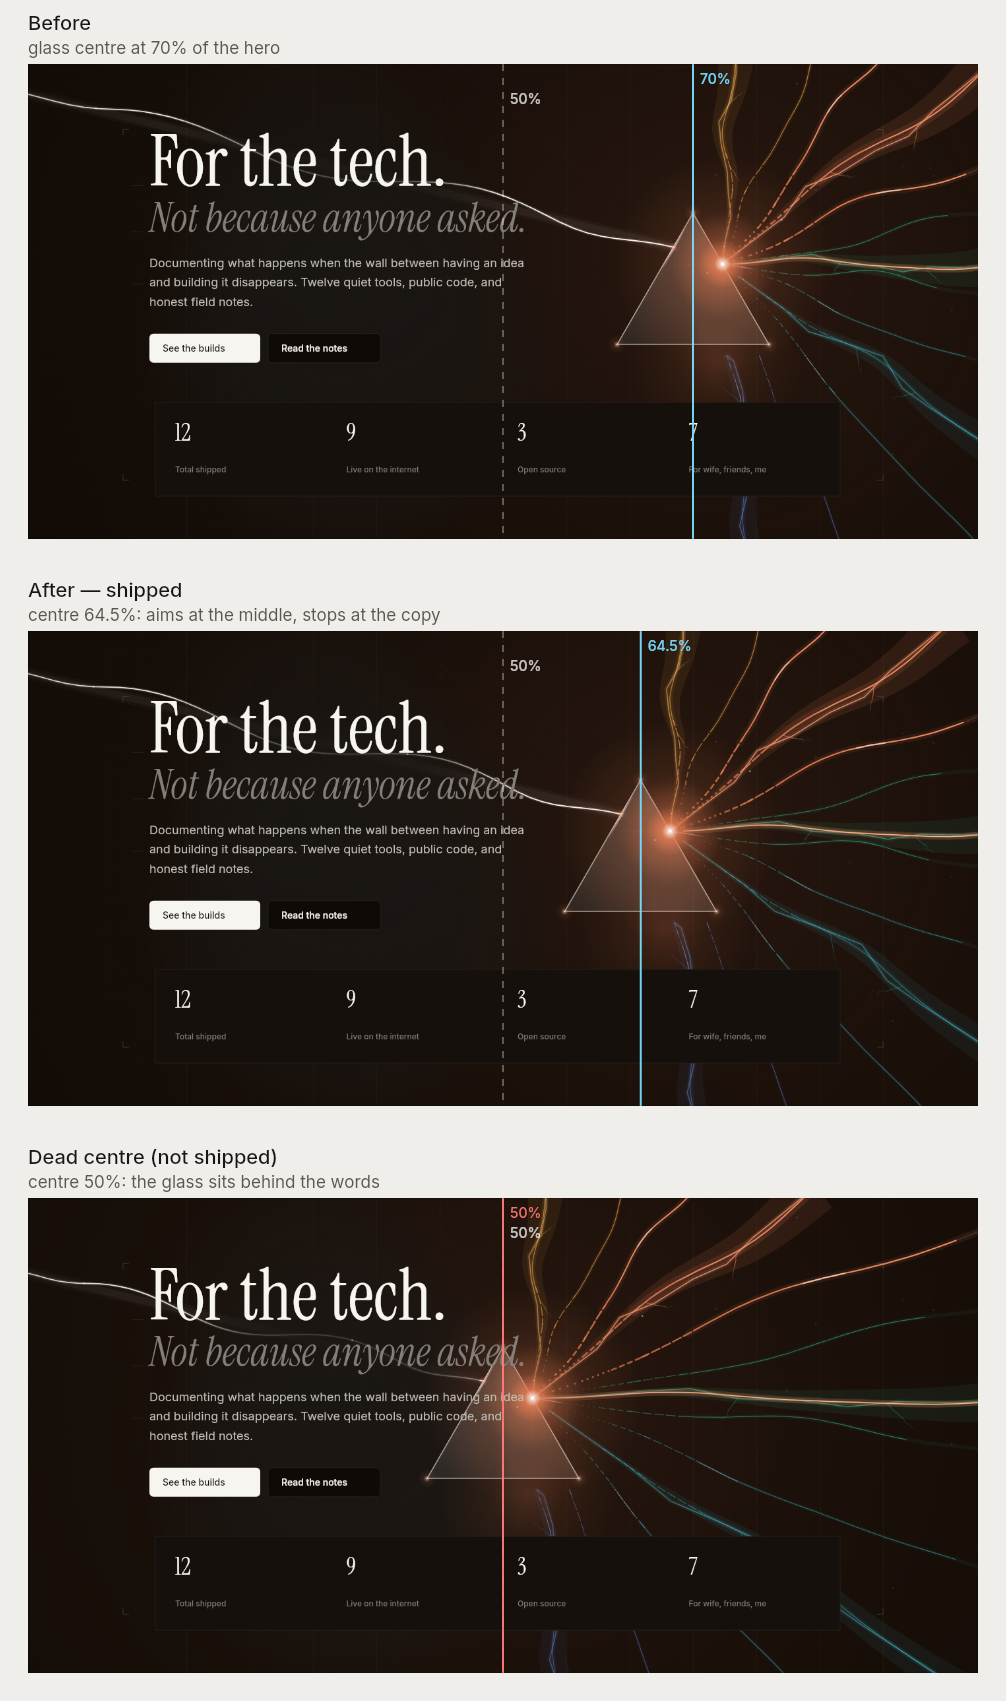
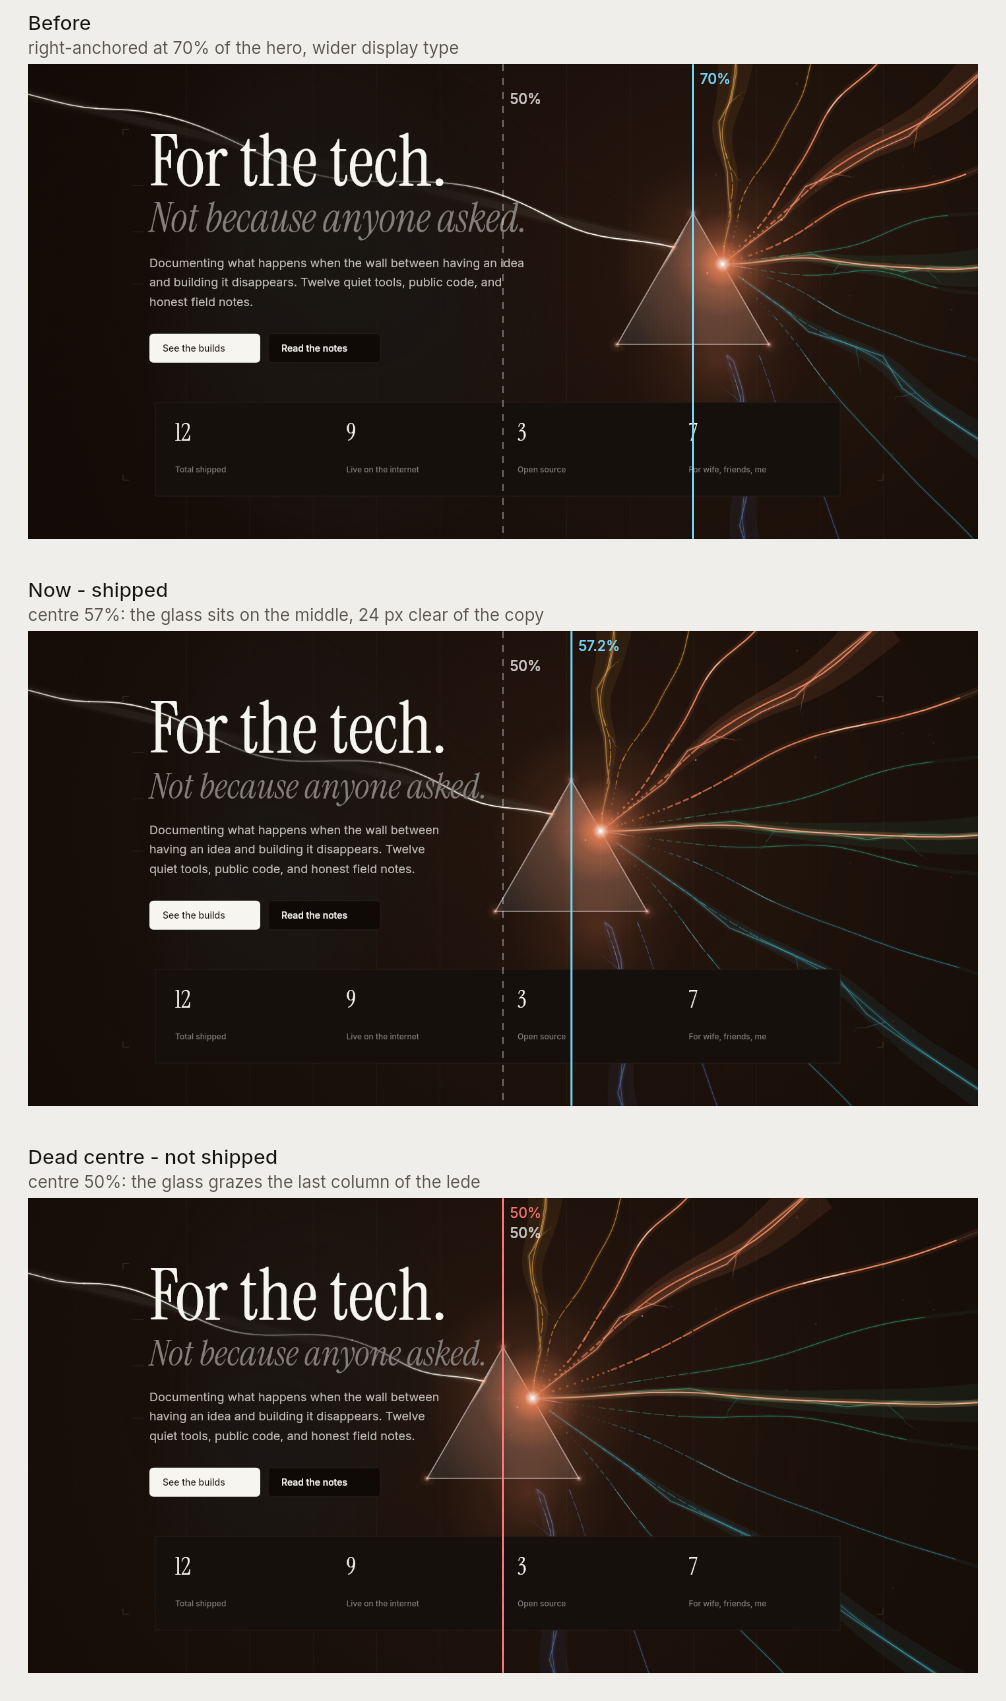
hero: narrow the copy so the glass can sit on the middle
The prism now lands at 57% of the hero (823px at 1440) instead of 64.5%:
its base straddles the 50% line and the fan fills the right half rather
than the right third. Two copy changes buy the room, since the copy's
own footprint — not the clearance margin — was the wall:

- closing italic: 3.8rem -> 3.4rem at xl
- lede: max-w-xl -> max-w-md (still three lines in the 640-2560 sweep)
- CTA row: sm:w-fit, so the measured rect is the buttons rather than the
  full-width flex container 250px of empty row wide

Dead centre (50%) stays out: the last lede column reaches within a few
pixels of the triangle's left edge. Captured QA layouts updated for the
new type scale; phase 8 stills and the alignment comparison regenerated;
all geometry invariants still pass.

diff --git a/src/components/sections/Hero.tsx b/src/components/sections/Hero.tsx
@@ -71,7 +71,11 @@ export function Hero() {
           and the graphic; a dissolve keeps them on one plane. */}
       <Container className="relative z-10" data-hero-container>
         <div className="grid grid-cols-1 gap-12 lg:grid-cols-12 items-center">
-          {/* Left column: headline + thesis + CTAs */}
+          {/* Left column: headline + thesis + CTAs.
+              These widths are load-bearing for the composition behind them: hero-ray.ts places
+              the prism as close to the column's centre line as this copy allows, so the right
+              edge of the italic, the lede and the CTA row is what decides where the glass
+              settles. Widening any of them pushes the whole picture back to the right. */}
           <div className="lg:col-span-7 space-y-6" data-hero-copy>
             <h1 id="hero-heading" className="font-serif tracking-tight">
               <span className="block text-[12vw] leading-[0.88] text-ink sm:text-[4.5rem] md:text-[5.5rem] lg:text-[6rem] xl:text-[6.8rem]">
@@ -79,7 +83,7 @@ export function Hero() {
               </span>
               <span
                 data-hero-thesis
-                className="mt-2 block text-[7.5vw] italic leading-[1.02] text-ink-mute sm:text-[2.6rem] md:text-[3.2rem] lg:text-[3.3rem] xl:text-[3.8rem]"
+                className="mt-2 block text-[7.5vw] italic leading-[1.02] text-ink-mute sm:text-[2.6rem] md:text-[3.2rem] lg:text-[3.3rem] xl:text-[3.4rem]"
               >
                 <RevealWord delay={0.18} italic>
                   Not because anyone asked.
@@ -87,13 +91,15 @@ export function Hero() {
               </span>
             </h1>
 
-            <p className="max-w-xl text-base leading-relaxed text-ink-soft md:text-lg">
+            {/* max-w-md keeps the paragraph at three lines while clearing the glass's band. */}
+            <p className="max-w-md text-base leading-relaxed text-ink-soft md:text-lg">
               Documenting what happens when the wall between having an idea and building it
               disappears. {numberWord(projectCount)} quiet tools, public code, and honest field
               notes.
             </p>
 
-            <div className="flex flex-col gap-3 pt-2 text-sm sm:flex-row sm:flex-wrap sm:items-center">
+            {/* `sm:w-fit`: the row's box is measured, so it must not be wider than its buttons. */}
+            <div className="flex flex-col gap-3 pt-2 text-sm sm:w-fit sm:flex-row sm:flex-wrap sm:items-center">
               <Link
                 to="/works"
                 className="group inline-flex min-h-11 items-center justify-center gap-2 rounded-md bg-ink px-6 text-paper transition-all duration-150 hover:bg-ink-soft focus-visible:outline-none focus-visible:ring-2 focus-visible:ring-ink focus-visible:ring-offset-2 focus-visible:ring-offset-paper"

diff --git a/design/hero-phase8/README.md b/design/hero-phase8/README.md
@@ -23,11 +23,11 @@ Because the prism's position is solved from the landing, the beam and the glass 
 apart, and because the origin is the first _traced far-facet contact_, the fan cannot drift from the glass
 either. Moving one number moves the whole picture coherently.
 
-| viewport | prism centre                                        | beam source               | landing on the left facet | dispersion origin |
-| -------- | --------------------------------------------------- | ------------------------- | ------------------------- | ----------------- |
-| 1440     | (929, 359) · 68 % of the column, 64.5 % of the hero | left frame edge, (0, 65)  | (899, 278)                | (973, 303)        |
-| 1024     | (710, 351) · 69 %                                   | left frame edge, (0, 108) | (680, 269)                | (755, 295)        |
-| 390      | (337, 64) · corner                                  | lower left, (0, 135)      | (365, 57)                 | right facet       |
+| viewport | prism centre                                      | beam source               | landing on the left facet | dispersion origin |
+| -------- | ------------------------------------------------- | ------------------------- | ------------------------- | ----------------- |
+| 1440     | (823, 359) · 57 % of the hero, 59 % of the column | left frame edge, (0, 90)  | (793, 278)                | (868, 303)        |
+| 1024     | (667, 351) · 65 %                                 | left frame edge, (0, 118) | (637, 269)                | (712, 295)        |
+| 390      | (337, 64) · corner                                | lower left, (0, 135)      | right facet               | right facet       |
 
 ### The glass aims at the _column's middle_, not at a right-hand anchor
 
@@ -40,14 +40,6 @@ the column's centre line; the copy is the only thing allowed to hold it back:
 centreX = clamp(band + halfW + 24, column.left + 0.5·column, frame − halfW − 2 %)
 ```
 
-On this composition the display type reaches roughly the middle of the page, so in practice the
-copy's clearance is what decides and the glass settles just past the last glyph — 64.5 % of the
-hero at 1440 rather than 70 %. That is the intended reading: **the glass is held back by the
-words, never by a chosen offset.** The footprint is also what keeps a dead-centre placement off
-the table: the italic line ends within a few pixels of the 50 % line, so a glass centred there
-would put its body behind "asked." and the right edge of the lede (see
-`phase8-prism-alignment.png`). Moving it further left needs a narrower copy, not a smaller margin.
-
 - **band** is the copy that actually shares the glass's vertical band — the display type, and at
   rest also the top of the CTA row, whose box reaches up into that band. Everything below the
   band (the rest of the lede and the buttons) sits under the glass and cannot push it.
@@ -59,6 +51,29 @@ would put its body behind "asked." and the right edge of the lede (see
 - **The source is allowed to sit exactly on the frame boundary.** On a very wide window the run
   reaches the top edge before the left edge; the ripple's envelope is zero there, so the light
   fades in from the edge rather than starting in mid-air.
+
+The glass used to be pinned to the column's three-quarter mark, which parked the section's
+centrepiece out on the right shoulder with a wide empty margin beside it. It now settles where the
+copy lets it: **57 % of the hero at 1440** (823 px), so the triangle's base straddles the 50 %
+line and the fan fills the right half instead of the right third.
+
+Getting there is a pair of changes, because the copy's own footprint is the wall:
+
+- **The copy column is a little narrower.** The closing italic drops from 3.8 rem to 3.4 rem at
+  `xl`, and the lede from `max-w-xl` (576 px) to `max-w-md` (448 px) — still three lines at every
+  width in the sweep, so the hero's height is unchanged.
+- **The CTA row no longer stands in for its buttons.** The row is a flex container, so its box is
+  as wide as the column while the buttons inside it ended 250 px earlier; `sm:w-fit` makes the
+  measured rect the buttons' own extent. Without it, an invisible 250 px of empty row was what
+  held the glass out on the right.
+
+A **dead-centre** glass (50 %, the bottom panel of `phase8-prism-alignment.png`) stays out: the
+last column of the lede reaches within a few pixels of the triangle's left edge, so the 24 px
+clearance is what stops it. Anything further left has to come out of the copy, not the geometry.
+
+The captured layouts in `scripts/hero-qa/data` were updated for the new type scale — the
+horizontal extents of the thesis, lede and CTA rects, plus the derived quiet zones. Vertical
+positions are from the original capture.
 
 A width sweep from 640 to 2560 px keeps all of it true: no clipped vertex, the column-relative
 position between 55 % and 88 %, an incident span above 240 px, and a source on the frame edge
